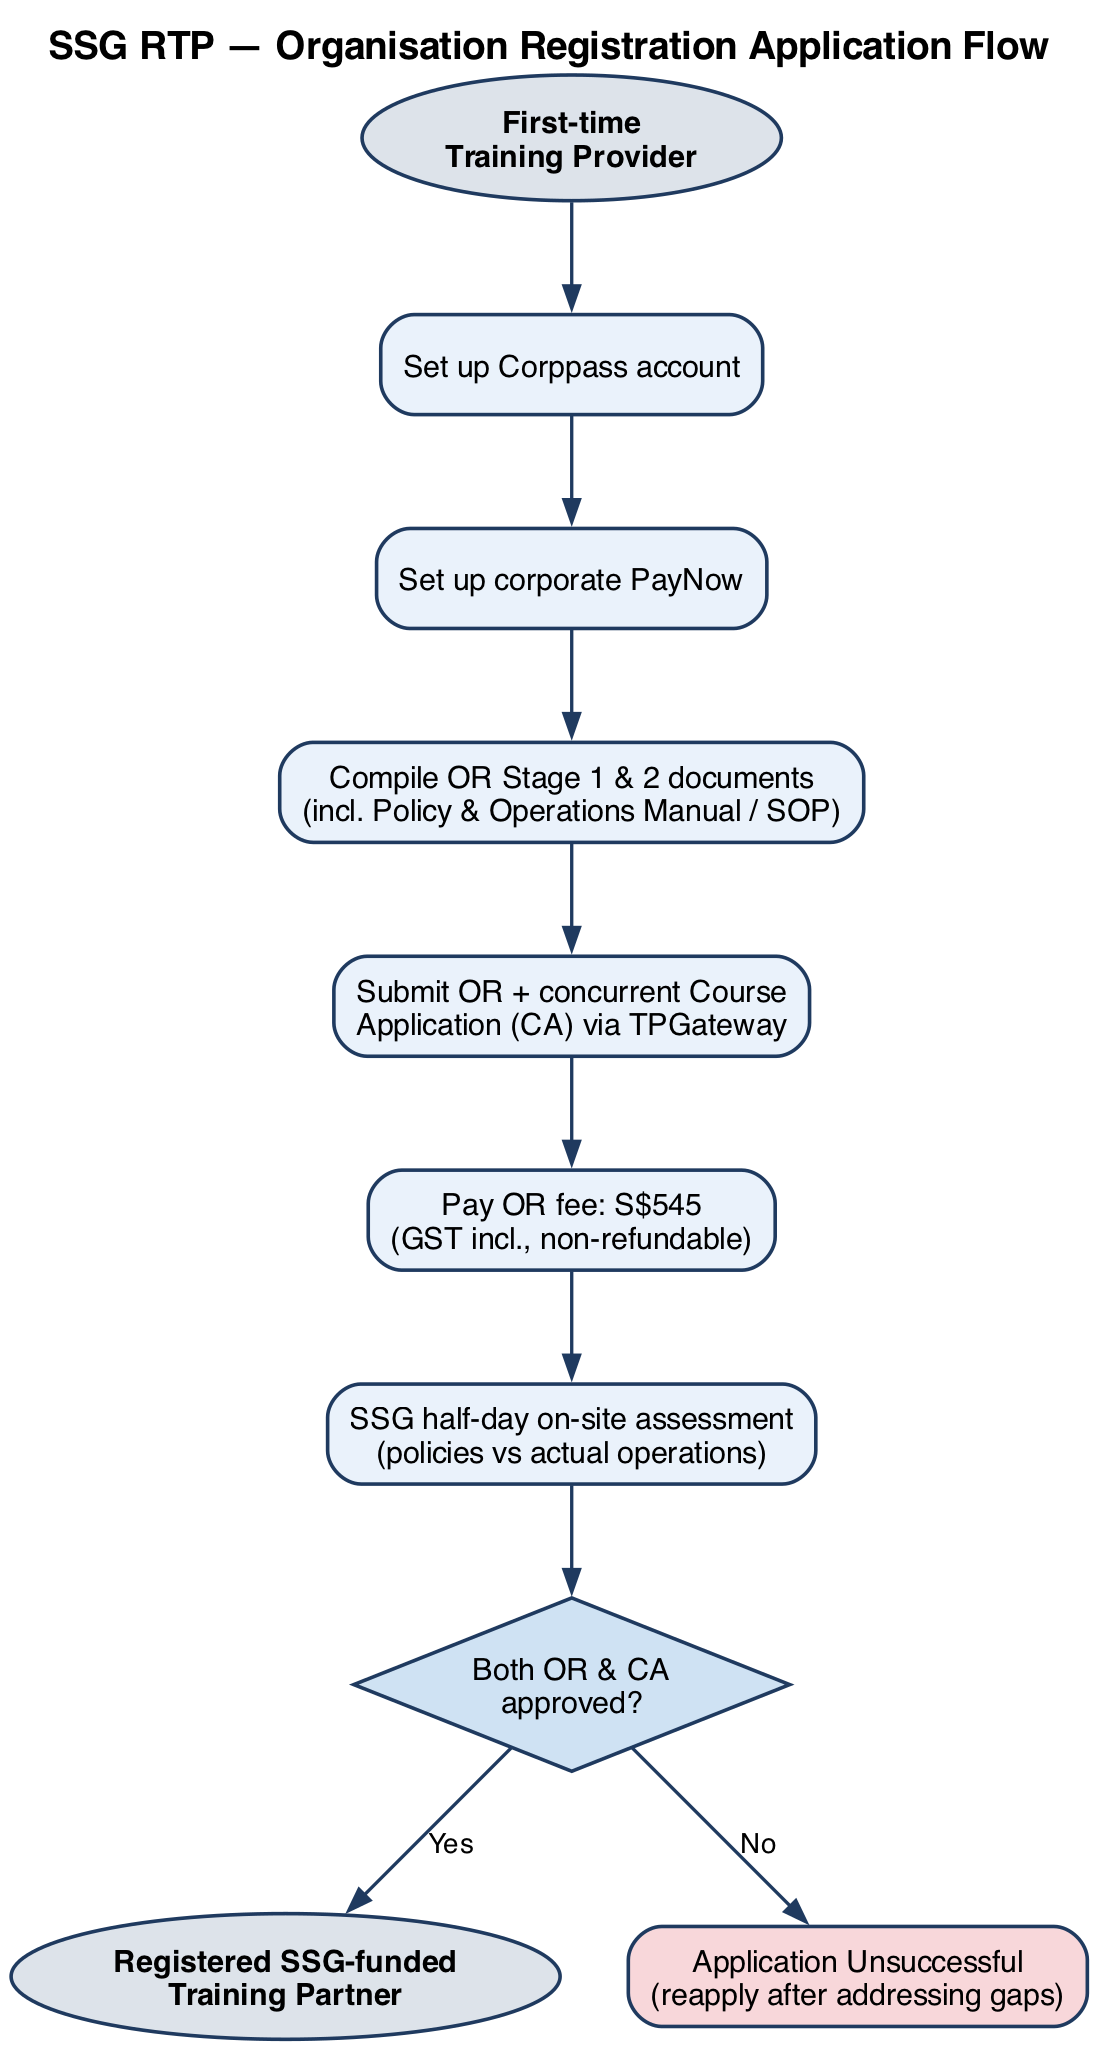
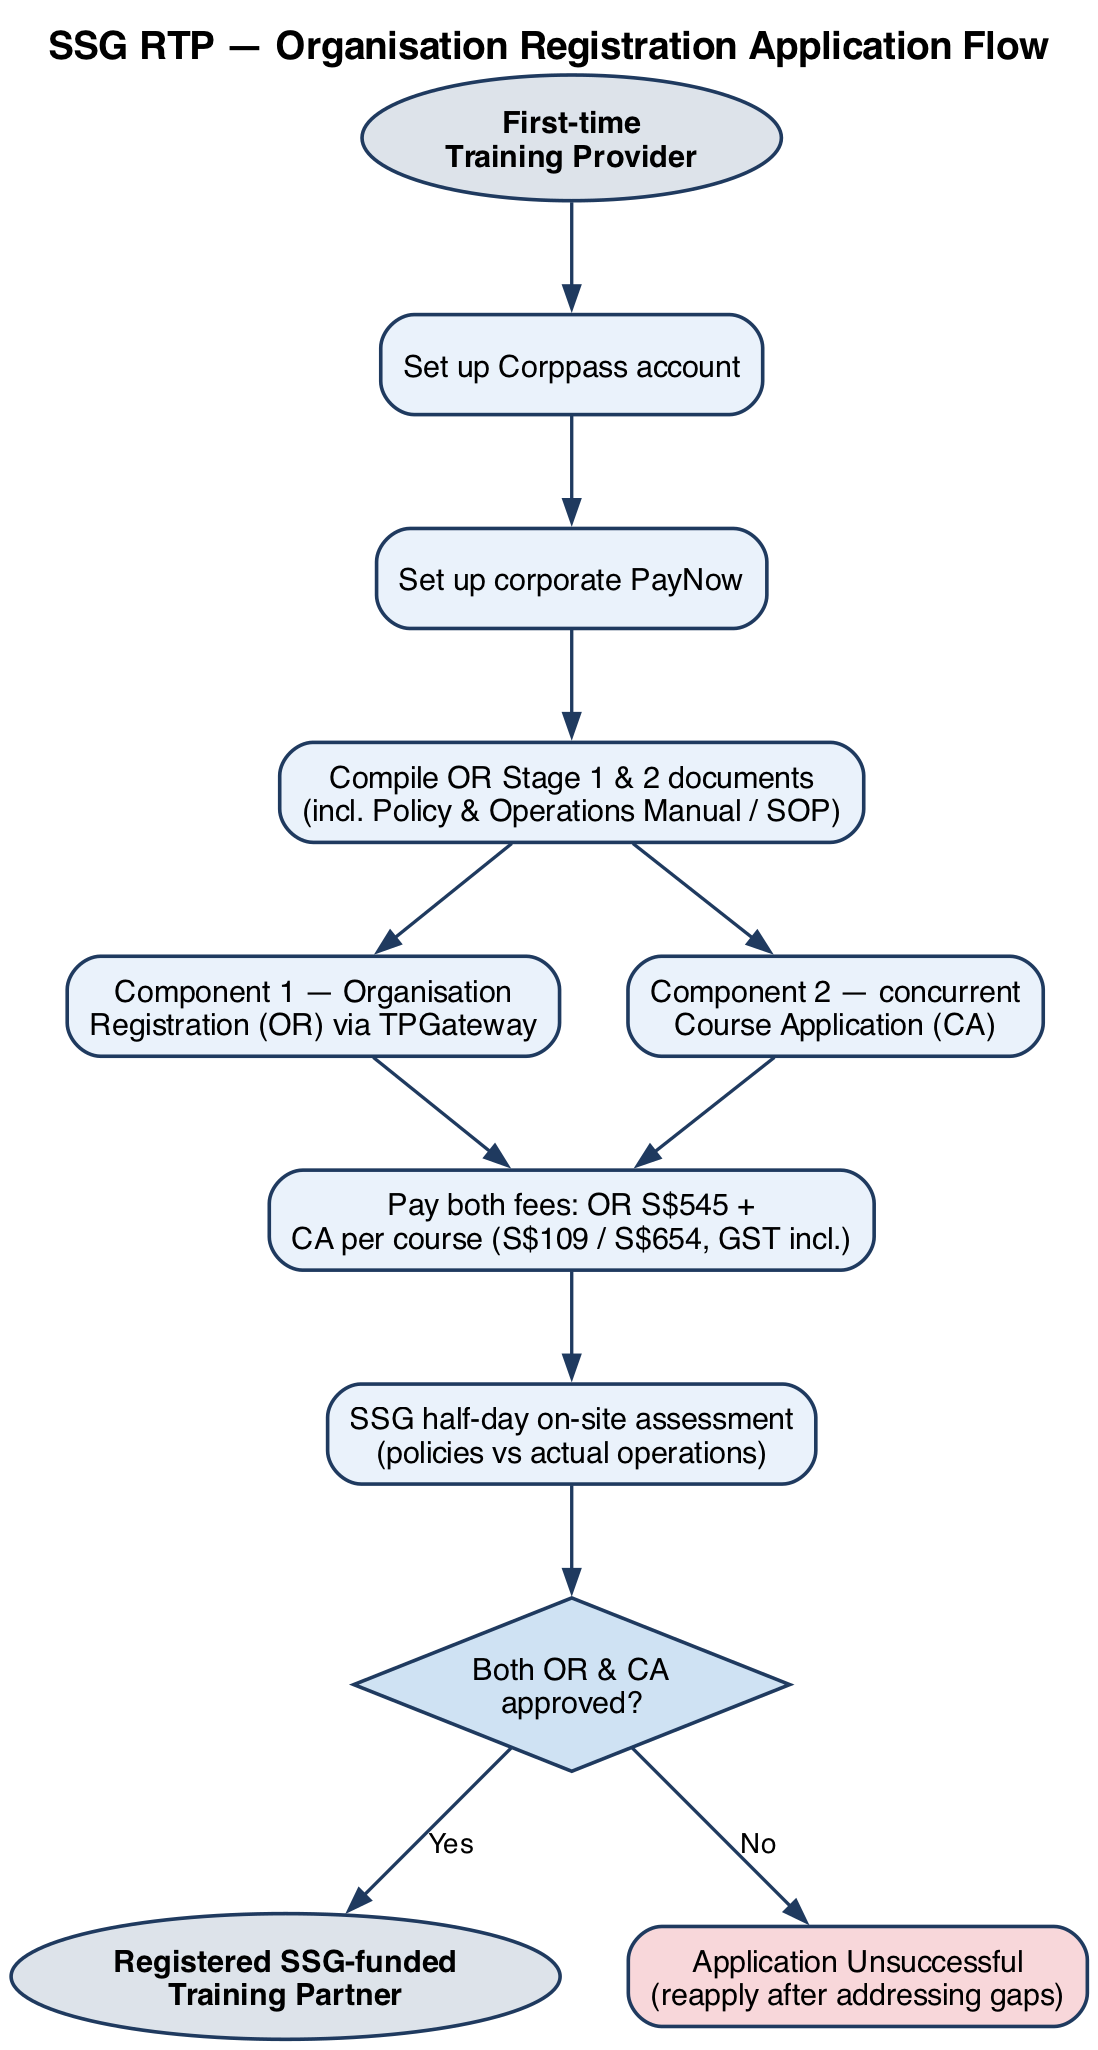
Clarify SSG ATO application as two components (OR + Course Application)
Show OR and Course Application as separate steps with separate fees on the
RTP guide: OR fee S$545 plus a per-course CA fee (S$109 CASL/non-WSQ,
S$654 WSQ). Both must be approved to register as an SSG-funded TP/ATO.
Split the application-flow diagram to branch into the two components.

Changed region(s): [[0.0619, 0.4371, 0.9599, 0.6244]]

diff --git a/app.py b/app.py
@@ -174,10 +174,17 @@ def page_rtp_guide():
     st.link_button("🌐 Open SSG TPGateway — Apply for Organisation Registration", RTP_URL)
 
     m1, m2, m3, m4 = st.columns(4)
-    m1.metric("Application Fee", "S$545", "GST incl • non-refundable")
-    m2.metric("Onsite Assessment", "Half-day", "by SSG officers")
-    m3.metric("Track Record", "≥ 1 year", "active each quarter")
-    m4.metric("Approval Needed", "OR + CA", "both must pass")
+    m1.metric("OR Application Fee", "S$545", "GST incl • non-refundable")
+    m2.metric("Course Application Fee", "S$109–654", "CASL / WSQ • per course")
+    m3.metric("Onsite Assessment", "Half-day", "by SSG officers")
+    m4.metric("Approval Needed", "OR + CA", "both steps must pass")
+
+    st.info("**Two steps, two fees.** Becoming an SSG-funded ATO requires **(1) an "
+            "Organisation Registration (OR)** *and* **(2) a Course Application (CA)**, "
+            "submitted together. Fees are charged separately: the **OR fee (S$545)** plus a "
+            "**Course Application fee per course** — **S$109** for CASL / non-WSQ courses or "
+            "**S$654** for WSQ courses (all GST incl.). **Both the OR and the CA must be "
+            "approved** before you are registered as an SSG-funded Training Partner.")
 
     st.divider()
     st.subheader("✅ Eligibility & Core Requirements")
@@ -237,10 +244,12 @@ def page_rtp_guide():
         ("Set up Corppass", "Register a Corppass account (corppass.gov.sg / +65 6335 3530)."),
         ("Set up PayNow", "Establish a corporate PayNow account."),
         ("Compile documents", "Prepare all OR Stage 1 and Stage 2 documents."),
-        ("Submit via TPGateway", "Submit OR application with a concurrent Course Application (CA)."),
-        ("Pay OR fee", "Pay the non-refundable S$545 (GST incl.) application fee."),
+        ("Submit Component 1 — OR application", "Submit the Organisation Registration (OR) on TPGateway."),
+        ("Submit Component 2 — Course Application", "Submit a concurrent Course Application (CA) — the two components go together."),
+        ("Pay both fees", "Pay the non-refundable OR fee (S$545, GST incl.) plus the Course "
+                          "Application fee per course (S$109 CASL/non-WSQ or S$654 WSQ, GST incl.)."),
         ("Onsite assessment", "SSG conducts a half-day onsite assessment of policies vs operations."),
-        ("Approval", "Both OR and CA must be approved to register as an SSG-funded TP."),
+        ("Approval", "Both the OR and the Course Application must be approved to register as an SSG-funded TP/ATO."),
     ]
     for i, (title, desc) in enumerate(steps, 1):
         st.markdown(f"**{i}. {title}** — {desc}")

diff --git a/flowcharts.py b/flowcharts.py
@@ -204,14 +204,16 @@ def rtp_application(out_dir, owner=None):
     _proc(g, "a", "Set up Corppass account")
     _proc(g, "b", "Set up corporate PayNow")
     _proc(g, "c", "Compile OR Stage 1 & 2 documents\n(incl. Policy & Operations Manual / SOP)")
-    _proc(g, "d", "Submit OR + concurrent Course\nApplication (CA) via TPGateway")
-    _proc(g, "e", "Pay OR fee: S$545\n(GST incl., non-refundable)")
+    _proc(g, "d1", "Component 1 — Organisation\nRegistration (OR) via TPGateway")
+    _proc(g, "d2", "Component 2 — concurrent\nCourse Application (CA)")
+    _proc(g, "e", "Pay both fees: OR S$545 +\nCA per course (S$109 / S$654, GST incl.)")
     _proc(g, "f", "SSG half-day on-site assessment\n(policies vs actual operations)")
     _decision(g, "gg", "Both OR & CA\napproved?")
     _terminal(g, "reg", "Registered SSG-funded\nTraining Partner")
     _proc(g, "fail", "Application Unsuccessful\n(reapply after addressing gaps)", fill="#F8D7DA")
-    g.edge("start", "a"); g.edge("a", "b"); g.edge("b", "c"); g.edge("c", "d")
-    g.edge("d", "e"); g.edge("e", "f"); g.edge("f", "gg")
+    g.edge("start", "a"); g.edge("a", "b"); g.edge("b", "c")
+    g.edge("c", "d1"); g.edge("c", "d2")
+    g.edge("d1", "e"); g.edge("d2", "e"); g.edge("e", "f"); g.edge("f", "gg")
     g.edge("gg", "reg", label="Yes"); g.edge("gg", "fail", label="No")
     return _render(g, "rtp_application", out_dir)
 
